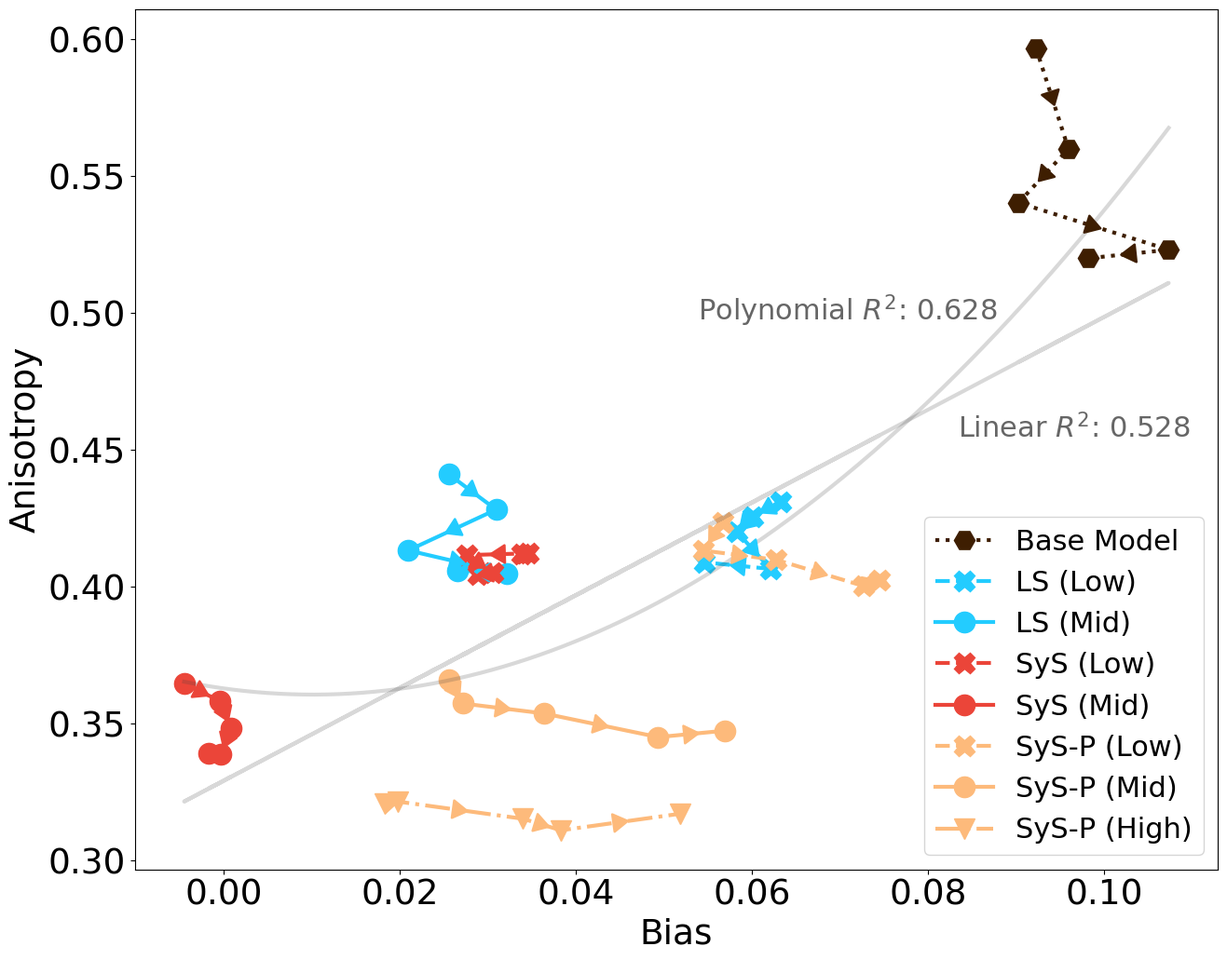
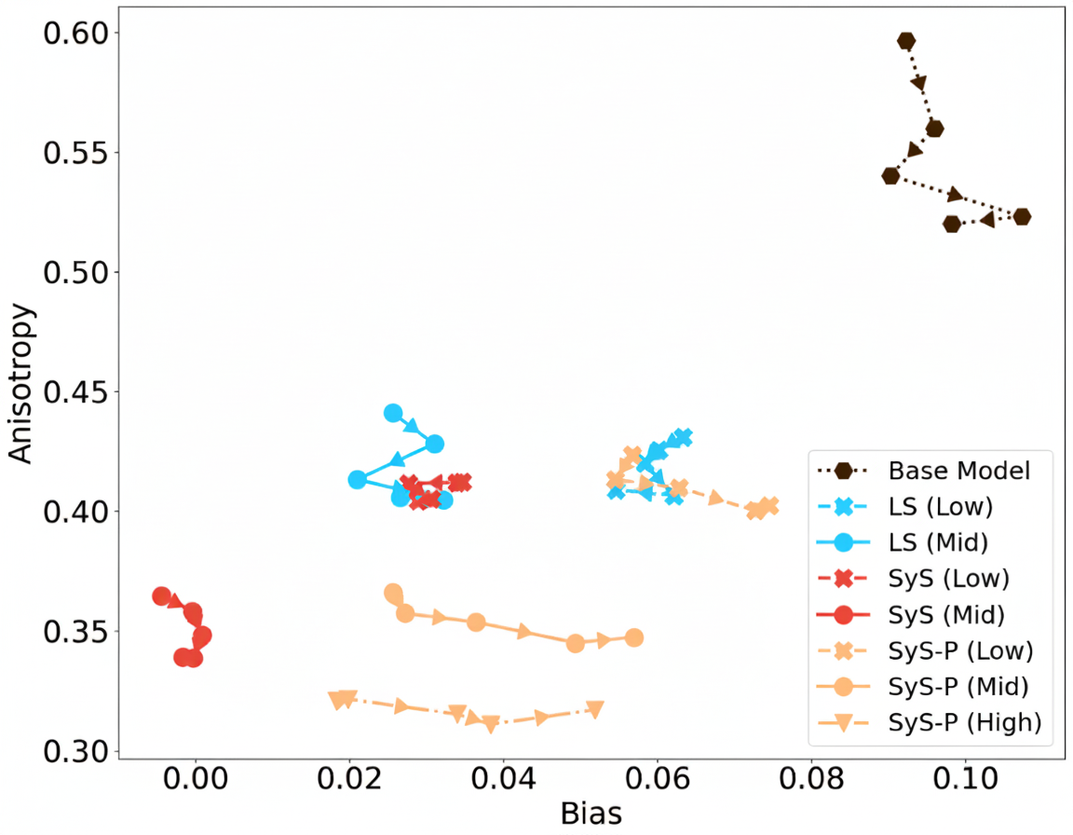
minor typos and wording issues I found prior to viva; also updating correlation figure/wording in syntactic smoothing

diff --git a/chapters/syntatic-smoothing/main.tex b/chapters/syntatic-smoothing/main.tex
@@ -70,17 +70,15 @@ In practice, this definition of isotropy is analytically infeasible to solve. In
 \label{eq:empirical-isotropy}
     I(v(\cdot)) \coloneq \mathbb{E}_{i\ne j}\big(1-\cos(v(w_i), v(w_j))\big)
 \end{equation}
-Here, $w_i$ and $w_j$ are two tokens sampled from the vocabulary, and $\cos$ is defined as taking the cosine similarity of the two word representations for $w_i$ and $w_j$. Intuitively, this empirical measure captures how similar word representations are to each other on average --- higher isotropy means more diverse, spread-out representations, while lower isotropy indicates clustered, similar representations.
+Here, $w_i$ and $w_j$ are two tokens sampled from the vocabulary, and $\cos$ is defined as taking the cosine similarity of the two word representations for $w_i$ and $w_j$. Intuitively, this empirical measure captures how similar word representations are to each other on average: higher isotropy indicates more diverse, spread-out representations, while lower isotropy indicates clustered, similar representations.
 
-\vspace{1em}
+% \vspace{1em}
 
 %Despite its prevalence, the impact of anisotropy on a model's language understanding abilities remains unclear. Some studies suggest that reducing anisotropy improves performance on non-contextual benchmarks, sentence comparison tasks, and multilingual benchmarks \citep{bis2021too, su2021whitening, rajaee2022isotropy}. Conversely, other research indicates that higher anisotropy might enhance semantic clustering tasks and that reducing anisotropy does not uniformly improve performance on common NLU tasks \citep{ait2023anisotropy, ding2022isotropy}. Furthermore, the relationship between anisotropy and maximum likelihood training has been questioned. Some researchers argue that isotropy exists in local manifolds of contextual word representations \citep{cai2020isotropy}, while others contend that anisotropy arises from the learning dynamics of the query and key attention matrices in transformer models \citep{godey2024anisotropy}.
 
 % \subsection{Reducing Anisotropy}
 
 % Existing methods to reduce anisotropy broadly fall into three categories. The first group of approaches transforms the hidden states of language models to remove semantically uninformative directions and to preserve the dimensions of maximal isotropy \citep{arora2016simple, mu2018all, raunak2019effective, su2021whitening,bis2021too}. This intervention style is based on the assumption that the top singular dimensions of pre-trained word representations encode frequency statistics rather than semantic or lexical information \citep{mu2018all}. The second category of methods introduces novel training objectives and regularization terms that reduce the effects of anisotropy \citep{gong2018frage, gao2018representation, wang2019improving}. This type of approach places an inductive bias on representations that push the embeddings of frequent and infrequent words to occupy a similar semantic space. The third set of approaches explores different training paradigms to directly minimise anisotropy, such as using normalizing flow models \citep{li2020sentence} or manipulating the gradients used in maximum likelihood models \citep{yu2022rare}.
-
-\vspace{1em}
 
 While frequency bias and anisotropy are prevalent in language modelling, quantifying their effects and understanding their impact on generalisation, particularly for infrequent words, remains an open area of research. This chapter introduces a novel method for improving the representation of infrequent tokens by integrating linguistic information. Moreover, I hypothesise that adjusting the learning process to better represent infrequent tokens will also reduce anisotropy, as these two phenomena are interconnected.
 
@@ -135,7 +133,7 @@ I provide the POS distributions and similarity distributions for the example tok
 
 \begin{figure}[ht!]
     \centering
-    \includegraphics[width=0.8\linewidth]{chapters/syntatic-smoothing/figures/distributions.png}
+    \includegraphics[width=0.8\linewidth]{chapters/syntatic-smoothing/figures/distributions.jpg}
     \caption{Part-of-speech distributions and similarity distributions for the subword tokens ``blind'' and ``the''. Similarities are computed as cosine-similarities against every other token in the vocabulary and sorted.}
     \label{fig:distributions}
     \vspace{-1em}
@@ -190,7 +188,7 @@ I introduce three types of baselines:
 \end{enumerate}
 
 
-\paragraph{Models} I train all models with \smoothing using the same two $\alpha$ values as the label smoothing baselines to facilitate comparison. I also run variants using the linear pacing function presented in \cref{section:smoothing} which linearly decreases the smoothing from an initial value of $\alpha$ to zero across training. For these variants, I use the same two values of smoothing, as well as an additional high value of $\alpha=0.8$ giving a total of five \smoothing variants. I do not include unpaced \smoothing with a high value of $\alpha$ as initial experiments found that distributing such a high proportion of the learning signal away from the correct token leads to high perplexity and poor downstream performance.
+\paragraph{Models} I train all models with \smoothing using the same two $\alpha$ values as the label smoothing baselines to facilitate comparison. I also run variants using the linear pacing function presented in \cref{section:smoothing} which linearly decreases the smoothing from an initial value of $\alpha$ to zero across training. For these variants, I use the same two values of smoothing (0.2 and 0.5), as well as an additional high value of $\alpha=0.8$ giving a total of five \smoothing variants. I do not include unpaced \smoothing with a high value of $\alpha$ as initial experiments found that distributing such a high proportion of the learning signal away from the correct token leads to high perplexity and poor downstream performance.
 
 \section{Results}
 \label{sec:anisotropy-results}
@@ -223,7 +221,7 @@ I introduce three types of baselines:
     \caption{\label{tbl:full-results} I report bias~($\downarrow$), anisotropy~($\downarrow$), BLiMP~($\uparrow$) score, and accuracy or correlation scores ($\uparrow$) on two downstream sentence-level tasks -- COLA and SST-2 -- and two downstream language inference tasks -- MNLI and QNLI -- for the MLM baseline, two label smoothing (LS) baselines, and five \smoothing variants. Paced (P. Low, Mid, High) variants use linear pacing to reduce the smoothing factor to zero over training.}
 \end{table*}
 
-The results are summarised in \cref{tbl:full-results}. I find that the method reduces frequency bias while retaining strong language modelling capabilities. At the same time, I observe that the models with the lowest frequency bias also demonstrate the lowest anisotropy. I then extend the analysis beyond the specific phenomenon of frequency bias and anisotropy by examining the impact of \smoothing on the linguistic generalisation capabilities of the model and its downstream performance after fine-tuning. Finally, I find that an alternative syntactic scoring metric leads to similar results as the cosine-based definition.
+The results are summarised in \cref{tbl:full-results}. I find that the method reduces frequency bias while retaining strong language modelling capabilities. At the same time, I observe that the models with the lowest frequency bias in each category of smoothing technique (i.e., paced and unpaced) also display the lowest anisotropy. I then extend the analysis beyond the specific phenomenon of frequency bias and anisotropy by examining the impact of \smoothing on the linguistic generalisation capabilities of the model and its downstream performance after fine-tuning. Finally, I find that an alternative syntactic scoring metric leads to similar results as the cosine-based definition.
 
 \subsection{Anisotropy and Frequency Bias}
 
@@ -268,33 +266,39 @@ As shown in \cref{tbl:full-results}, all models with \smoothing reduce anisotrop
 
 Over the course of training, I observe a consistent double-dip trend: an initial dip followed by a sudden rise, followed by a second slow decrease in anisotropy. The \smoothing models do not see as large a sudden rise, maintaining a lower anisotropy throughout. To examine the learning dynamics in more detail, I also plot the evolution of the anisotropy across several layers of the baseline model and the \texttt{SyS}-P (High) variant, given in \cref{fig:anisotropy-combined}. Two observations stand out. The anisotropy of all layers in the \smoothing model is lower than in the corresponding layers in the baseline model across the entire learning process. In both the baseline model and the \smoothing model, earlier layers have lower anisotropy; this finding agrees with the same observation made by \citet{ethayarajh2019contextual}. Notably, in the final layer the anisotropy of the \smoothing model remains consistently low and does not increase significantly during training, in contrast to the drastic fluctuation observed in the baseline model. This is particularly interesting as the final layer is commonly used for fine-tuning in downstream tasks and is empirically found to encode more high-level semantic information than the earlier layers \citep{clark2019does}. 
 
-\paragraph{Frequency bias and anisotropy are correlated.}
+\paragraph{Syntactic smoothing changes the learning dynamics of frequency bias and anisotropy.}
 
-For each model, I compute the model's frequency bias and anisotropy at multiple training stages. I plot the learning dynamics of anisotropy and frequency bias in \cref{fig:bias-anisotropy-correlation}, only including the points after 50\% of training has been completed to avoid the noisy first dip observed in the anisotropy dynamics above. I find a positive Pearson correlation of 0.73 and a polynomial goodness-of-fit $R^2$ score of 0.63 between these two metrics.
+For each model, I compute the model's frequency bias and anisotropy at multiple training stages. I plot the learning dynamics of anisotropy and frequency bias in \cref{fig:bias-anisotropy-correlation}, only including the points after 50\% of training has been completed to avoid the noisy first dip observed in the anisotropy dynamics above. For the baseline model, we observe that as training process, anisotropy decreases, with frequency bias remaining relatively stable. Meanwhile, for the unpaced \smoothing models, we observe that already by 50\% of training, the \smoothing models have much lower anisotropy and frequency bias than the baseline model. Over the course of the remaining training steps, anisotropy and frequency bias do not change significantly. Meanwhile, for the paced \smoothing models, we observe that the anisotropy begins at a similarly low level as the unpaced \smoothing models, however as training progresses, the frequency bias increases noticably. This suggests that the use of pacing gradually re-introduces frequency bias towards the end of training, as the degree of smoothing is linearly reduced to zero. We leave a deeper exploration of the learning dynamics of the \smoothing models to future work.
 
-It is also evident that the pacing approach re-introduces frequency bias towards the end of training, as the degree of smoothing is linearly reduced to zero. It is noteworthy that the final anisotropy and bias are lower than the baseline model, and completing training without any smoothing may be beneficial for downstream tasks, as explored in the next section.
+% I find a positive Pearson correlation of 0.73 and a polynomial goodness-of-fit $R^2$ score of 0.63 between these two metrics.
 
-\paragraph{Frequency Bias Disproportionately Affects Content Words}
+%It is also evident that the pacing approach re-introduces frequency bias towards the end of training, as the degree of smoothing is linearly reduced to zero. It is noteworthy that the final anisotropy and bias are lower than the baseline model, and completing training without any smoothing may be beneficial for downstream tasks, as explored in the next section.
+
+\begin{figure}[ht!]
+    \centering
+    \includegraphics[width=0.70\linewidth]{chapters/syntatic-smoothing/figures/bias-vs-anisotropy.png}
+    \caption{Pairs of anisotropy, and frequency bias for the baseline RoBERTa model, the two label smoothing baselines and the \smoothing models. The arrows indicate increasing training progress (starting after 50\% of training has completed).}
+    \label{fig:bias-anisotropy-correlation}
+\end{figure}
+
+\vspace{-1em}
+\paragraph{Frequency Bias Disproportionately Affects Content Words.}
 \label{sec:word-class-versus-word-frequency}
-
-
-To better understand the linguistic categories most impacted by frequency bias, I analyse the relationship between token frequency and syntactic class. Specifically, I compare the POS tag distributions of the top 100 most frequent tokens and the bottom 100 least frequent tokens in the training data. 
 
 \begin{wrapfigure}{r}{0.5\textwidth}
     \centering
+    \vspace{-1.5em}
     \includegraphics[width=0.49\textwidth]{chapters/syntatic-smoothing/figures/top_versus_bottom_pos_dist.pdf}
     \caption{Distribution across POS tags of the top \& bottom 100 most frequent tokens.}
     \label{fig:top-100-pos-dist}
 \end{wrapfigure}
 
+To better understand the linguistic categories most impacted by frequency bias, I analyse the relationship between token frequency and syntactic class. Specifically, I compare the POS tag distributions of the top 100 most frequent tokens and the bottom 100 least frequent tokens in the training data. 
+
+\pagebreak
+
 I find that content words, especially nouns, are over-represented in the low-frequency tail of the distribution, while function words dominate the high-frequency tokens. \cref{fig:top-100-pos-dist} illustrates this disparity. This suggests that frequency bias in language models may disproportionately hinder the learning of specialised vocabulary, particularly rare nouns and content-bearing expressions. It also reinforces the importance of a smoothing strategy that supports lexical generalisation by leveraging syntactic structure.
 
-\begin{figure}[ht!]
-    \centering
-    \includegraphics[width=0.75\linewidth]{chapters/syntatic-smoothing/figures/bias-vs-anisotropy.png}
-    \caption{Pairs of anisotropy, and frequency bias for the baseline RoBERTa model, the two label smoothing baselines and the \smoothing models. The arrows indicate increasing training progress (starting after 50\% of training has completed).}
-    \label{fig:bias-anisotropy-correlation}
-\end{figure}
 
 \subsection{Effects of Smoothing on Downstream Tasks}
 While the method primarily aims to enhance the representation of infrequent tokens, I sought to investigate the potential for improvement in standard evaluation measures, given the limited number of affected test instances. Nonetheless, I observe that all the \smoothing models, as well as the label smoothing models, achieve better BLIMP scores than the baseline model (see \cref{tbl:full-results}). These results suggest that methods that smooth label distributions, whether through a syntactic prior or a simpler uniform smoothing approach, enhance the representation of all tokens, including the more frequent ones.
@@ -316,11 +320,11 @@ where KL$(M_i, M_j)$ is the Kullback-Leibler divergence between the POS distribu
 \midrule
 Base Model & 9.8 & 51.3 & 71.4  \\
 \midrule
-\texttt{SyS} (Mid) \hspace{0.42cm} [JS]  & 3.6 & 34.7 & 71.3 \\
 \texttt{SyS} (Low) \hspace{0.38cm} [JS]  & 4.1 & 34.6 & 73.3  \\
-\texttt{SyS}-P (High) \hspace{0.05cm} [JS] & 6.6 & 36.7  & 72.5  \\ 
-\texttt{SyS}-P (Mid) \hspace{0.15cm} [JS] & 8.4 & 39.1 &  73.0 \\ 
+\texttt{SyS} (Mid) \hspace{0.42cm} [JS]  & 3.6 & 34.7 & 71.3 \\
 \texttt{SyS}-P (Low) \hspace{0.12cm} [JS] & 5.0 &  34.5 & 72.9 \\ 
+\texttt{SyS}-P (Mid) \hspace{0.15cm} [JS] & 8.4 & 39.1 &  73.0 \\ 
+\texttt{SyS}-P (High) \hspace{0.05cm} [JS] & 6.6 & 36.7  & 72.5  \\ 
 \bottomrule
 \end{tabular}
 \caption{\label{tbl:jsd-similarity-metric-results}

diff --git a/chapters/introduction/main.tex b/chapters/introduction/main.tex
@@ -23,7 +23,7 @@ This insight extends beyond academic interest. While frontier models dominate pu
 
 % We should also probably define what we mean by small models.
 
-The rapid scaling of language models has brought about remarkable capabilities, but it has also surfaced a host of challenges and risks \citep{bommasani2021foundation}. Small language models, \textit{which I define as models with fewer than 1 Billion (1B) parameters}, offer a promising counterbalance. While the distinction between small and large models is relative to the scale being compared, the 1B parameter threshold provides a practical cutoff: a model with 1B parameters requires approximately 8GB of memory (assuming 32-bit precision) and can therefore be managed on a single GPU or deployed on-device with the hardware available as of 2025. Models of this scale offer several key benefits over their large counterparts:
+The rapid scaling of language models has brought about remarkable capabilities, but it has also surfaced a host of challenges and risks \citep{bommasani2021foundation}. Small language models, \textit{which I define as models with fewer than 1 Billion (1B) parameters}, offer a promising counterbalance. While the distinction between small and large models is relative to the scale being compared, the 1B parameter threshold provides a practical cutoff: a model with 1B parameters requires approximately 4GB of memory (assuming 32-bit precision) and can therefore be managed on a single GPU or deployed on-device with the hardware available as of 2025. Models of this scale offer several key benefits over their large counterparts:
 
 \paragraph{Large models introduce significant societal risks.} As enumerated by the Stanford Center for Research on Foundation Models \citep{bommasani2021foundation}, these include the potential for generating disinformation and misinformation at scale, and amplifying biases and discrimination present in training data. The wide-spread adoption of these models across industries also raises concerns about the creation of single points of failure: a widely deployed model that is compromised could have cascading negative effects across all downstream applications. Relatedly, the authors highlight that these risks are not just technical but also social, as they can entrench power in the hands of a few organisations and make it harder to adapt models to specific or local needs.
 
@@ -139,7 +139,7 @@ This thesis makes the following contributions to the study of small language mod
 
 \end{itemize}
 
-\textbf{2. A quantitative framework for analyzing learning dynamics in small models}
+\textbf{2. A quantitative framework for analysing learning dynamics in small models}
 
 \begin{itemize}
     \item Introduces a set of metrics for quantifying both how effectively layers in a language model use their representational capacity over time and how well a model converges to a stable representation (Chapter 6).

diff --git a/chapters/analysis_background/main.tex b/chapters/analysis_background/main.tex
@@ -47,7 +47,7 @@ The reading, processing, and writing of the residual stream occur independently 
 
 Mechanistic interpretability has been used to study how language models represent and process information. One key insight is that neural networks often represent multiple features in overlapping activation dimensions, a phenomenon known as superposition. \citet{elhage2022toy} formalised this idea and showed how it creates both efficient storage and representational interference. Complementary work by \citet{geva2021memory} reframed feed-forward layers as key-value memory stores, where weights act as retrievable content-addressable memories. This perspective highlights how information retrieval occurs outside the attention mechanism. More recently, \citet{lindsey2025biology} use mechanistic interpretability to analyse complex, higher-order circuits, finding for instance language specific weights in the Claude 3.5 Haiku model \citep{anthropic2024claude3}
 
-Anthropic, the AI company behind Claude \citep{anthropic2024claude3}, is one of the main proponents of mechanistic interpretability, and published much of the aforementioned foundational work in mechanistic interpretability \citep{elhage2021mathematical, elhage2022toy, ameisen2025circuit}. As outlined by the company, Anthropic believe their competitive advantage lies in their ability to fully decompose and identify all the features of language models \citep{anthropic2023components}. To do so, they have popularised the use of sparse autoencoders, a method that trains a small network on top of the features of a language model to reveal what output behaviours of a model are triggered by each feature \citep{templeton2024scaling}. So far, anthropic have catalogued 1000s of features of their models, and are working towards a reserach vision where each parameter's role is fully understood \citep{anthropic2023components}.
+Anthropic, the AI company behind Claude \citep{anthropic2024claude3}, is one of the main proponents of mechanistic interpretability, and published much of the aforementioned foundational work in mechanistic interpretability \citep{elhage2021mathematical, elhage2022toy, ameisen2025circuit}. As outlined by the company, Anthropic believe their competitive advantage lies in their ability to fully decompose and identify all the features of language models \citep{anthropic2023components}. To do so, they have popularised the use of sparse autoencoders, a method that trains a small network on top of the features of a language model to reveal what output behaviours of a model are triggered by each feature \citep{templeton2024scaling}. So far, anthropic have catalogued 1000s of features of their models, and are working towards a research vision where each parameter's role is fully understood \citep{anthropic2023components}.
 
 \subsection{Tools for Intermediate Layers and Model Analysis}
 

diff --git a/chapters/conclusion/main.tex b/chapters/conclusion/main.tex
@@ -19,7 +19,7 @@ From the perspective of cognitive inspiration, one promising direction is to bro
 
 Similarly, future work should explore training paradigms that move closer to how biological systems adapt and learn. Humans acquire language not only by passively predicting the next word, but also by actively interacting with their environment, receiving feedback, and continuously adjusting their strategies. In this light, paradigms such as reinforcement learning and meta-learning appear especially promising. When incorporated into the pre-training process itself these methods may encourage models to develop more efficiently and learn more generalisable behaviours.
 
-The tools introduced in this thesis, particularly \pico, are designed to enable exactly these kinds of future experiments. By lowering the barrier for controlled, hypothesis-driven training and analysis, \pico provides a foundation for future students and researchers to explore new architectures and training strategies. Already, early adopters have begun to extend this line of work: projects I mentored during my PhD have been accepted to upcoming conferences, and the open-source release of \pico has drawn substantial community interest, with around 500 stars on GitHub and 125,000 views on YouTube at the time of writing. These numbers underscore the demand for lightweight, transparent frameworks that make the scientific study of language models more accessible.
+The tools introduced in this thesis, particularly \pico, are designed to enable exactly these kinds of future experiments. By lowering the barrier for controlled, hypothesis-driven training and analysis, \pico provides a foundation for future students and researchers to explore new architectures and training strategies. Already, early adopters have begun to extend this line of work: projects I mentored during my PhD have been accepted to upcoming conferences, and the open-source release of \pico has drawn substantial community interest, with around 400 stars on GitHub and 125,000 views on YouTube at the time of writing. These numbers underscore the demand for lightweight, transparent frameworks that make the scientific study of language models more accessible.
 
 Looking ahead, one key challenge is to expand the set of metrics for studying learning dynamics. The methods introduced in this thesis shed light on representational capacity usage (PER) and model convergence dynamics, but much remains to be explored about the internal circuitry of models, the formation of compositional representations, and the mechanisms that underlie generalisation. Developing richer diagnostic tools will not only deepen our scientific understanding, but also make it possible to design more robust and interpretable small models.
 

diff --git a/chapters/climb/main.tex b/chapters/climb/main.tex
@@ -347,7 +347,7 @@ As a general note, while the curriculum models do not uniformly outperform the v
 
 
 \paragraph{Different representations of vocabulary difficulty work better for different tasks.}
-When representing difficulty in the vocabulary curriculum experiments, token ID (i.e., a proxy for token frequency) appears to work better than word classes (POS tags) or a combination of token ID and POS tags (hybrid) on the BLiMP evaluation tasks, but worse than POS tags on SuperGLUE and MSGS (\cref{tbl:result-vocab-cl}). For BLIMP Supplement, the best model is the vocabulary curriculum that uses token ID frequency with a linear pacing function (fifth row in \cref{tbl:result-vocab-cl}). For GLUE and MSGS, the best model is the hybrid model that uses both token ID and POS tags to define difficulty (sixth row in \cref{tbl:result-vocab-cl}). Interestingly, the model that achieves the lowest perplexity and highest BLIMP overall is the vanilla baseline model. 
+When representing difficulty in the vocabulary curriculum experiments, token ID (i.e., a proxy for token frequency) appears to work better than word classes (POS tags) or a combination of token ID and POS tags (hybrid) on the BLiMP evaluation tasks, but worse than POS tags on SuperGLUE and MSGS (\cref{tbl:result-vocab-cl}). For BLIMP Supplement, the best model is the vocabulary curriculum that uses token ID frequency with a linear pacing function (first row in \cref{tbl:result-vocab-cl}). For GLUE and MSGS, the best model is the hybrid model that uses both token ID and POS tags to define difficulty (fifth row in \cref{tbl:result-vocab-cl}). Interestingly, the model that achieves the lowest perplexity and highest BLIMP overall is the vanilla baseline model. 
 
 \paragraph{Log pacing sometimes helps for vocabulary curriculum learning, but not consistently.}
 While log pacing outperforms linear pacing on BLiMP in 2 out of 3 configurations and across all SuperGLUE settings (3/3), it performs worse across the board on the BLiMP Supplement tasks (0/3). This suggests that pacing strategies for vocabulary exposure are task-sensitive. It is possible that the diverse vocabulary required by BLiMP Supplement tasks may not be well captured by the current pacing functions, indicating room for future exploration of more tailored schedules or functions inspired by non-monotonic learning trajectories.

diff --git a/chapters/background/main.tex b/chapters/background/main.tex
@@ -1,7 +1,7 @@
 \chapter{Language Modelling: Foundations, Scale, and Eﬀiciency}
 
 
-This chapter provides a comprehensive overview of language modelling in four parts. First, I define the language modelling task and fundamental terms that are used throughout this thesis. As part of this first section, I trace through key historical milestones (e.g. n-gram models, word embeddings, and the advent of the attention mechanism and the Transformer architecture). I then discuss the key resources required to train and evaluate modern large language models; these include common datasets and standard evaluation benchmarks. The next section transitions to a discussion of small langauge models, and provides an overview of recent techniques for training these types of models more efficiently. I conclude by motivating the need to explore more principled and efficient language modelling strategies, and how cognitive science can inform this effort. Key terms, concepts, and frequently referenced resources in this thesis are \thesishl{highlighted} in this chapter.
+This chapter provides a comprehensive overview of language modelling in four parts. First, I define the language modelling task and fundamental terms that are used throughout this thesis. As part of this first section, I trace through key historical milestones (e.g. n-gram models, word embeddings, and the advent of the attention mechanism and the Transformer architecture). I then discuss the key resources required to train and evaluate modern large language models; these include common datasets and standard evaluation benchmarks. The next section transitions to a discussion of small language models, and provides an overview of recent techniques for training these types of models more efficiently. I conclude by motivating the need to explore more principled and efficient language modelling strategies, and how cognitive science can inform this effort. Key terms, concepts, and frequently referenced resources in this thesis are \thesishl{highlighted} in this chapter.
 
 \section{How to Model Language}
 \label{sec:lm-foundations}
